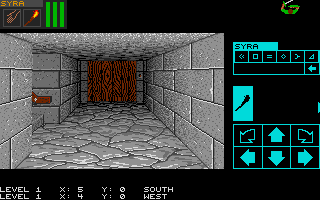
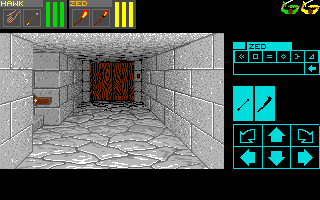
2026-10-10 v 21

diff --git a/Assets/Editor/ViewportLayoutEditor.cs b/Assets/Editor/ViewportLayoutEditor.cs
@@ -498,7 +498,7 @@ public class ViewportLayoutEditor : EditorWindow
 
   // Front-facing up stairs at the Level 1 staircase landing.
   private const string StairsUpF1Prefs = "DM.ViewEdit.StairsUpF1.";
-  private const string StairsUpF1Accepted = "33|42|false|true";
+  private const string StairsUpF1Accepted = "82|32|false|true";
   private int stairsUpF1X = 82, stairsUpF1Y = 32;
   private bool stairsUpF1Mirror = false, stairsUpF1Enabled = true;
 
@@ -509,9 +509,15 @@ public class ViewportLayoutEditor : EditorWindow
   private int stairsUpFrontS1LeftX = 0, stairsUpFrontS1LeftY = 32;
   private bool stairsUpFrontS1LeftMirror = true, stairsUpFrontS1LeftEnabled = true;
   private const string StairsUpFrontS1Prefs = "DM.ViewEdit.StairsUpFrontS1.";
-  private const string StairsUpFrontS1Accepted = "192|42|true|true";
+  private const string StairsUpFrontS1Accepted = "192|32|false|true";
   private int stairsUpFrontS1X = 192, stairsUpFrontS1Y = 32;
   private bool stairsUpFrontS1Mirror = false, stairsUpFrontS1Enabled = true;
+
+  // Left-side distant stair-up piece at Level 1 (4,0) West.
+  private const string StairsUpFrontS2Prefs = "DM.ViewEdit.StairsUpFrontS2.";
+  private const string StairsUpFrontS2Accepted = "0|52|false|true";
+  private int stairsUpFrontS2X = 0, stairsUpFrontS2Y = 52;
+  private bool stairsUpFrontS2Mirror = false, stairsUpFrontS2Enabled = true;
 
   // Level 0 staircase landing, independent of Level 1 calibration.
   private const string StairsLevel0S0LeftPrefs = "DM.ViewEdit.StairsLevel0S0Left.";
@@ -17288,6 +17294,7 @@ private static void HandleGameViewPointerDown(
     BlitStairsUpF1IntoPreview(pixels);
     BlitStairsUpFrontS1IntoPreview(pixels);
     BlitStairsUpFrontS1LeftIntoPreview(pixels);
+    BlitStairsUpFrontS2IntoPreview(pixels);
     BlitStairsUpS2IntoPreview(pixels);
     BlitStairsLevel0S0IntoPreview(pixels);
     BlitStairsS0D2NorthIntoPreview(pixels);
@@ -21164,6 +21171,10 @@ private static void HandleGameViewPointerDown(
     stairsUpFrontS1Y = EditorPrefs.GetInt(StairsUpFrontS1Prefs + "Y", 32);
     stairsUpFrontS1Mirror = EditorPrefs.GetBool(StairsUpFrontS1Prefs + "Mirror", false);
     stairsUpFrontS1Enabled = EditorPrefs.GetBool(StairsUpFrontS1Prefs + "Enabled", true);
+    stairsUpFrontS2X = EditorPrefs.GetInt(StairsUpFrontS2Prefs + "X", 0);
+    stairsUpFrontS2Y = EditorPrefs.GetInt(StairsUpFrontS2Prefs + "Y", 52);
+    stairsUpFrontS2Mirror = EditorPrefs.GetBool(StairsUpFrontS2Prefs + "Mirror", false);
+    stairsUpFrontS2Enabled = EditorPrefs.GetBool(StairsUpFrontS2Prefs + "Enabled", true);
     stairsUpS2LeftX = EditorPrefs.GetInt(StairsUpS2LeftPrefs + "X", 0);
     stairsUpS2LeftY = EditorPrefs.GetInt(StairsUpS2LeftPrefs + "Y", 61);
     stairsUpS2LeftMirror = EditorPrefs.GetBool(StairsUpS2LeftPrefs + "Mirror", false);
@@ -24365,6 +24376,8 @@ private static void HandleGameViewPointerDown(
       DrawStairsUpFrontS1CalibrationRow();
     if (IsStairsUpFrontS1LeftReferencePose())
       DrawStairsUpFrontS1LeftCalibrationRow();
+    if (IsStairsUpFrontS2ReferencePose())
+      DrawStairsUpFrontS2CalibrationRow();
     if (IsStairsUpS2ReferencePose())
     {
       DrawStairsUpS2CalibrationRow(false);
@@ -24647,7 +24660,10 @@ private static void HandleGameViewPointerDown(
   // type; absolute player coordinates and dungeon level do not.
   private bool HasStairsUpFrontS1AtSide(bool rightSide)
   {
-    if (previewMiniMap == null)
+    // This front-facing S1 artwork is calibrated for looking south toward
+    // the up-stair entrance. A diagonal stair in a perpendicular view is
+    // an S2 side projection, not an S1 front projection.
+    if (previewFacing != DungeonFacing.South || previewMiniMap == null)
       return false;
     DungeonMap.GetForwardOffset(previewFacing, out int forwardX, out int forwardY);
     DungeonMap.GetRightOffset(previewFacing, out int sideX, out int sideY);
@@ -24922,6 +24938,144 @@ private static void HandleGameViewPointerDown(
     }
     if (apply)
       SaveStairsUpFrontS1LeftCalibration();
+  }
+
+  private bool IsStairsUpFrontS2ReferencePose()
+  {
+    return previewDungeonLevel == 1 && previewX == 4 && previewY == 0
+        && previewFacing == DungeonFacing.West;
+  }
+
+  private void BlitStairsUpFrontS2IntoPreview(Color32[] pixels)
+  {
+    if (pixels == null || !IsStairsUpFrontS2ReferencePose() || !stairsUpFrontS2Enabled)
+      return;
+    const string assetPath = "Assets/Art/Walls/Stairs/StairsUp_S2_20x43.png";
+    Texture2D sprite = AssetDatabase.LoadAssetAtPath<Texture2D>(assetPath);
+    if (sprite == null)
+    {
+      Debug.LogError("STAIRS UP FRONT S2: missing asset: " + assetPath);
+      return;
+    }
+    if (sprite.width != 20 || sprite.height != 43)
+    {
+      Debug.LogError("STAIRS UP FRONT S2: expected 20x43 at " + assetPath);
+      return;
+    }
+    if (!sprite.isReadable)
+    {
+      Debug.LogError("STAIRS UP FRONT S2: enable Read/Write on " + assetPath);
+      return;
+    }
+    BlitPieceIntoPreview(pixels, sprite, stairsUpFrontS2X,
+        DisplayYToUnityY(stairsUpFrontS2Y, sprite.height), stairsUpFrontS2Mirror);
+  }
+
+  private bool SaveStairsUpFrontS2Calibration()
+  {
+    string sourcePath = GetThisEditorSourceAssetPath();
+    if (string.IsNullOrEmpty(sourcePath) || !File.Exists(sourcePath))
+    {
+      Debug.LogError("STAIRS UP FRONT S2 Apply: source script missing: " + sourcePath);
+      return false;
+    }
+    const string token = "private const string StairsUpFrontS2Accepted = \"";
+    try
+    {
+      string source = File.ReadAllText(sourcePath);
+      int begin = source.IndexOf(token, System.StringComparison.Ordinal);
+      if (begin < 0 || source.IndexOf(token, begin + token.Length,
+          System.StringComparison.Ordinal) >= 0)
+      {
+        Debug.LogError("STAIRS UP FRONT S2 Apply: expected exactly one StairsUpFrontS2Accepted");
+        return false;
+      }
+      int valueStart = begin + token.Length;
+      int end = source.IndexOf('"', valueStart);
+      if (end < 0)
+      {
+        Debug.LogError("STAIRS UP FRONT S2 Apply: malformed StairsUpFrontS2Accepted");
+        return false;
+      }
+      string accepted = stairsUpFrontS2X + "|" + stairsUpFrontS2Y + "|"
+          + (stairsUpFrontS2Mirror ? "true" : "false") + "|"
+          + (stairsUpFrontS2Enabled ? "true" : "false");
+      string updated = source.Substring(0, valueStart) + accepted + source.Substring(end);
+      if (updated != source)
+        File.WriteAllText(sourcePath, updated);
+      EditorPrefs.SetInt(StairsUpFrontS2Prefs + "X", stairsUpFrontS2X);
+      EditorPrefs.SetInt(StairsUpFrontS2Prefs + "Y", stairsUpFrontS2Y);
+      EditorPrefs.SetBool(StairsUpFrontS2Prefs + "Mirror", stairsUpFrontS2Mirror);
+      EditorPrefs.SetBool(StairsUpFrontS2Prefs + "Enabled", stairsUpFrontS2Enabled);
+      RefreshEditModePreview();
+      RepaintGameViews();
+      Repaint();
+      if (updated != source)
+        AssetDatabase.ImportAsset(sourcePath, ImportAssetOptions.ForceUpdate);
+      return true;
+    }
+    catch (System.Exception exception)
+    {
+      Debug.LogError("STAIRS UP FRONT S2 Apply: " + exception);
+      return false;
+    }
+  }
+
+  private void DrawStairsUpFrontS2CalibrationRow()
+  {
+    if (!TryReadSavedStairCalibration("StairsUpFrontS2Accepted", out string accepted))
+      return;
+    string[] saved = accepted.Split('|');
+    if (saved.Length != 4 || !int.TryParse(saved[0], out int acceptedX)
+        || !int.TryParse(saved[1], out int acceptedY)
+        || !bool.TryParse(saved[2], out bool acceptedMirror)
+        || !bool.TryParse(saved[3], out bool acceptedEnabled))
+    {
+      Debug.LogError("STAIRS UP FRONT S2: invalid saved calibration in source");
+      return;
+    }
+    EditorGUILayout.BeginHorizontal();
+    float oldLabelWidth = EditorGUIUtility.labelWidth;
+    Color oldColor = GUI.contentColor;
+    GUIStyle style = new GUIStyle(EditorStyles.boldLabel);
+    style.normal.textColor = Color.magenta;
+    const string caption = "StairsUp_S2 (20x43)";
+    GUILayout.Label(caption, style, GUILayout.Width(style.CalcSize(new GUIContent(caption)).x));
+    GUILayout.Space(8f);
+    float enabledWidth = EditorStyles.label.CalcSize(new GUIContent("Set")).x;
+    EditorGUIUtility.labelWidth = enabledWidth;
+    GUI.contentColor = stairsUpFrontS2Enabled != acceptedEnabled ? Color.red : oldColor;
+    bool enabled = DrawMouseOnlyToggle("Set", stairsUpFrontS2Enabled, stairsUpFrontS2Enabled,
+        GUILayout.Width(enabledWidth + 18f), GUILayout.ExpandWidth(false));
+    EditorGUIUtility.labelWidth = EditorStyles.label.CalcSize(new GUIContent("X")).x;
+    GUI.contentColor = stairsUpFrontS2X != acceptedX ? Color.red : oldColor;
+    int x = stairsUpFrontS2X;
+    bool xChanged = DrawIntStepperInline("X", ref x, snap, false, true, 24f, 24f);
+    EditorGUIUtility.labelWidth = EditorStyles.label.CalcSize(new GUIContent("Y")).x;
+    GUI.contentColor = stairsUpFrontS2Y != acceptedY ? Color.red : oldColor;
+    int y = stairsUpFrontS2Y;
+    bool yChanged = DrawIntStepperInline("Y", ref y, snap, false, true, 24f, 24f);
+    GUILayout.Space(6f);
+    GUI.contentColor = stairsUpFrontS2Mirror != acceptedMirror ? Color.red : oldColor;
+    bool mirror = EditorGUILayout.ToggleLeft("Mirror", stairsUpFrontS2Mirror, GUILayout.Width(66f));
+    GUI.contentColor = oldColor;
+    bool apply = GUILayout.Button("Apply", GUILayout.Width(58f), GUILayout.ExpandWidth(false));
+    NoteContentRight();
+    EditorGUIUtility.labelWidth = oldLabelWidth;
+    EditorGUILayout.EndHorizontal();
+    if (enabled != stairsUpFrontS2Enabled || (xChanged && x != stairsUpFrontS2X)
+        || (yChanged && y != stairsUpFrontS2Y) || mirror != stairsUpFrontS2Mirror)
+    {
+      stairsUpFrontS2Enabled = enabled;
+      stairsUpFrontS2X = x;
+      stairsUpFrontS2Y = y;
+      stairsUpFrontS2Mirror = mirror;
+      RefreshEditModePreview();
+      RepaintGameViews();
+      Repaint();
+    }
+    if (apply)
+      SaveStairsUpFrontS2Calibration();
   }
 
   private bool IsStairsUpS2ReferencePose()
